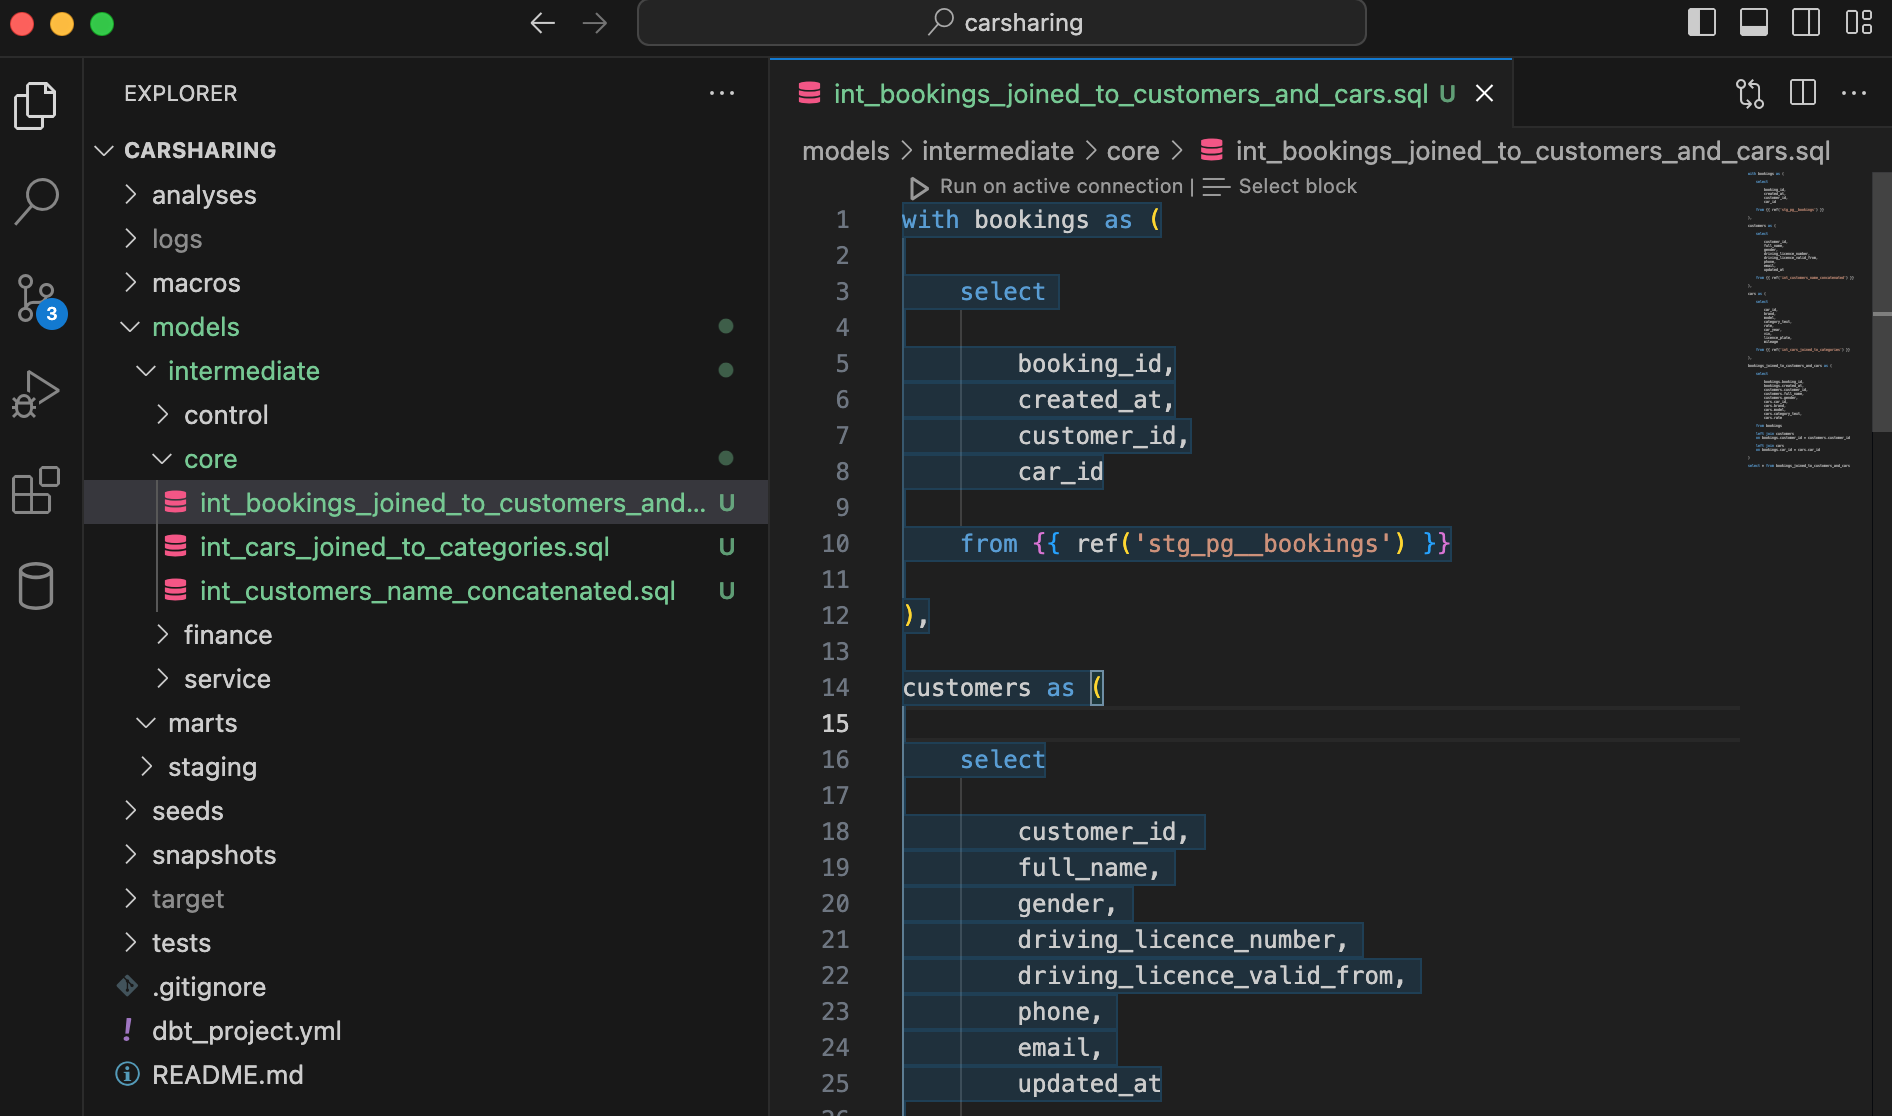
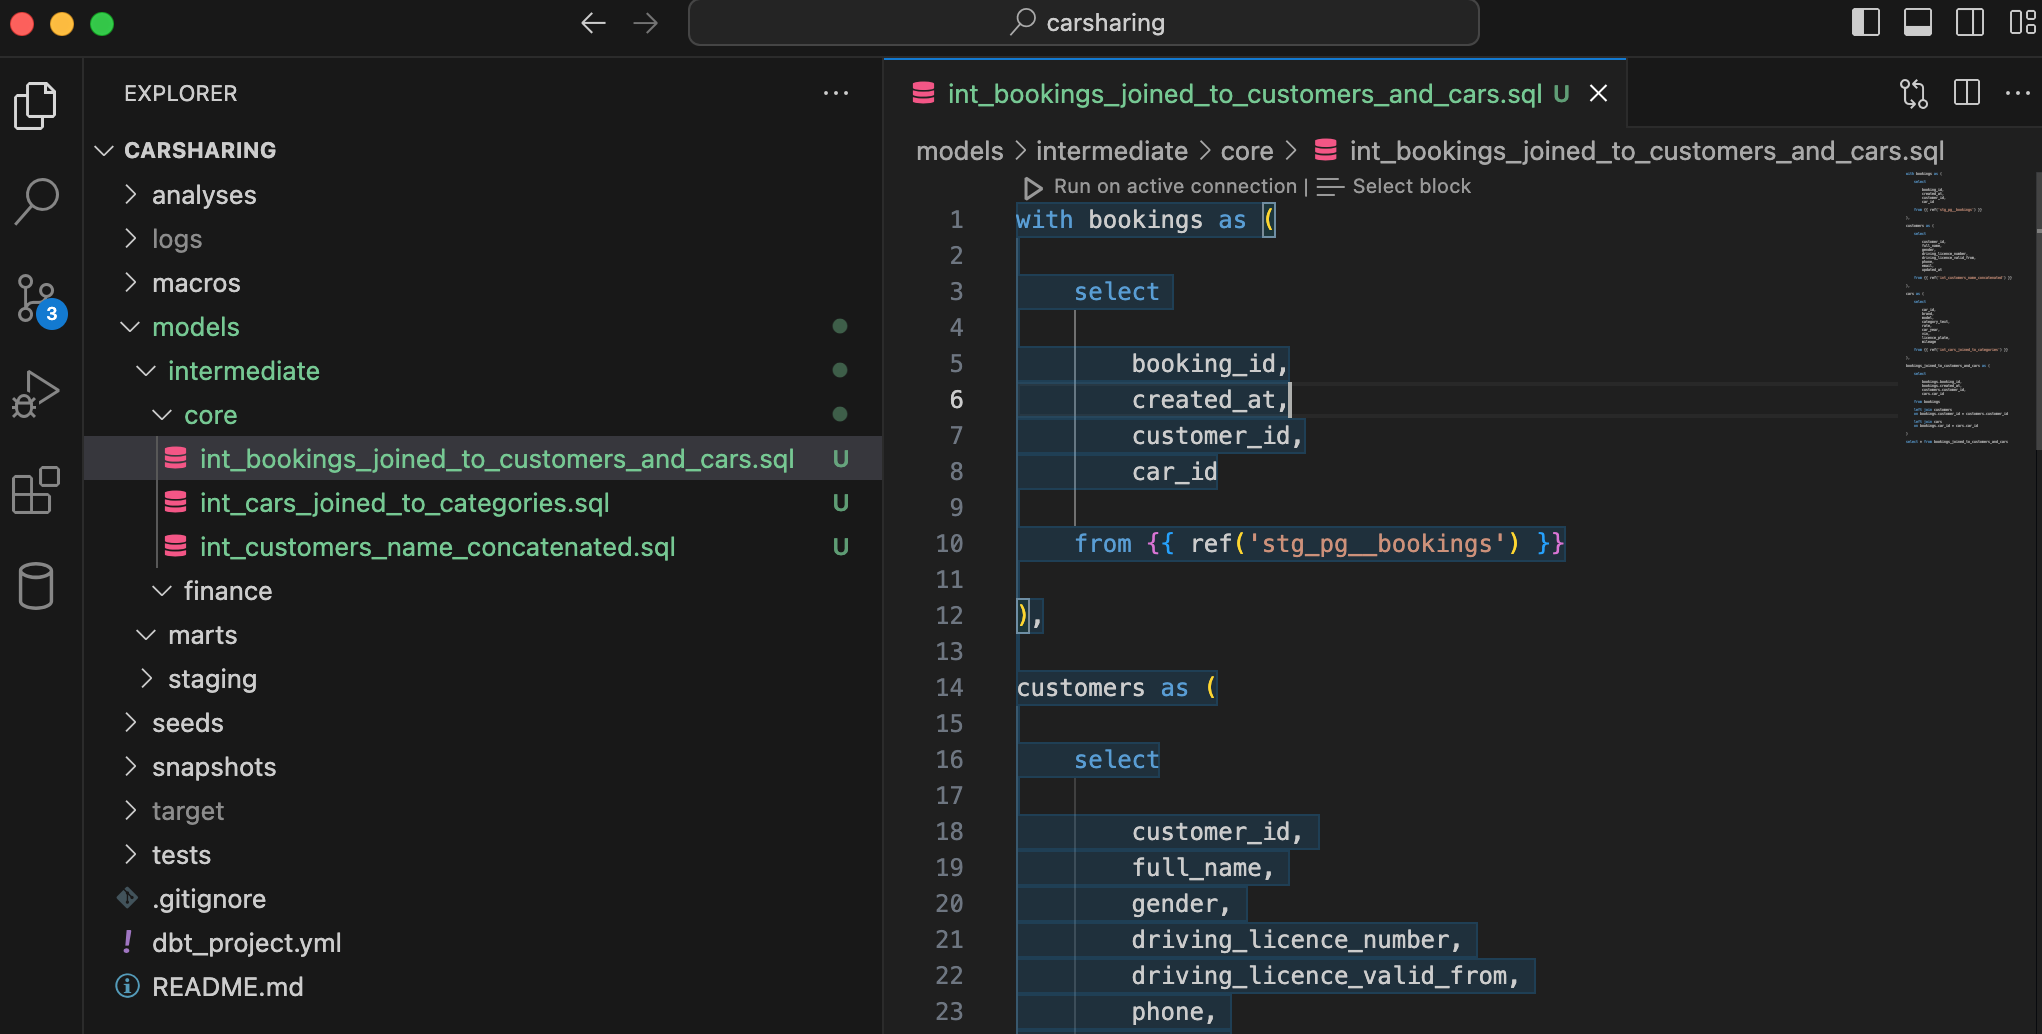
Update 7 files
- sozdanie-modeley-promezhutochnogo-sloya-intermed.md
   - sozdanie-modeley-promezhutochnogo-sloya-intermed-2.png
   - sozdanie-modeley-promezhutochnogo-sloya-intermed-3.png
   - sozdanie-modeley-promezhutochnogo-sloya-intermed-4.png
   - sozdanie-modeley-promezhutochnogo-sloya-intermed.png
 - uchebnyy-proekt.md
 - sozdanie-modeley-promezhutochnogo-sloya-intermed-5.png

diff --git a/sozdanie-modeley-promezhutochnogo-sloya-intermed.md b/sozdanie-modeley-promezhutochnogo-sloya-intermed.md
@@ -13,15 +13,13 @@ title: Создание моделей промежуточного слоя (in
 
 -  `core` – для хранения «общих» моделей,
 
--  `finance` – для хранения моделей финансового отдела,
-
--  `service` – для хранения моделей сервисного отдела.
+-  `finance` – для хранения моделей финансового отдела.
 
 ## Модели слоя
 
 ### Общие модели
 
-Одна из основных сущностей, которая может быть использована обоими отделами компании – заказчики (customers). Сама данная сущность будет создана на слое витрин, а промежуточный слой – место для преобразования данных для этой сущности.
+Одна из основных сущностей, которая может быть использована различными подразделениями компании – заказчики (customers). Сама данная сущность будет создана на слое витрин, а промежуточный слой – место для преобразования данных для этой сущности.
 
 На staging-слое есть модель `stg_pg__customers.sql`, которая содержит отдельные поля с именами и фамилиями заказчиков – `first_name` и `last_name`. Но по отдельности такие поля в аналитике практически не используются. В связи с этим, выполните первое простое преобразование данных на промежуточном слое – объединение этих двух полей.
 
@@ -64,7 +62,7 @@ with customers as (
 select * from customers
 ```
 
-![](./sozdanie-modeley-promezhutochnogo-sloya-intermed.png " Рисунок №. Промежуточная модель заказчиков"){width=1726px height=1018px}
+![](./sozdanie-modeley-promezhutochnogo-sloya-intermed.png "исунок №. Промежуточная модель заказчиков"){width=1892px height=946px}
 
 Пусть это достаточно простой пример, но на нем вы увидели не менее простой принцип создания модели промежуточного слоя dbt-проекта.
 
@@ -72,7 +70,7 @@ select * from customers
 
 Для создания обобщенной модели с данными об автомобилях обогатите данные таблицы `car` данными таблицы `category`.
 
-Создайте в папке `models/intermediate/core/` файл (в соответствии с правилами наименования) `int_cars_joined_to_categories.sql`.
+Создайте в папке `models/intermediate/core/` файл (по правилами наименования) `int_cars_joined_to_categories.sql`.
 
 Сделайте выборку данных из каждой staging-модели, а затем соедините:
 
@@ -130,7 +128,7 @@ cars_joined_to_categories as (
 select * from cars_joined_to_categories
 ```
 
-![](./sozdanie-modeley-promezhutochnogo-sloya-intermed-2.png "Рисунок №. Промежуточная модель автомобили"){width=1704px height=1070px}
+![](./sozdanie-modeley-promezhutochnogo-sloya-intermed-2.png "Рисунок №. Промежуточная модель автомобили"){width=1860px height=1002px}
 
 На промежуточном слое в качестве источников могут использоваться не только staging-модели, но и модели непосредственно промежуточного слоя. Примените эту идею в создании третьей общей сущности в платформе данных – бронирования (bookings). Как правило, бронирование содержит информацию о субъекте и объекте брони и будем считать эту сущность эквивалентом заказа. Применительно к учебному проекту модель бронирования должна быть представлена в разрезе заказчика и автомобиля.
 
@@ -194,13 +192,7 @@ bookings_joined_to_customers_and_cars as (
         bookings.booking_id,
         bookings.created_at,
         customers.customer_id, 
-        customers.full_name, 
-        customers.gender,
-        cars.car_id,
-        cars.brand, 
-        cars.model, 
-        cars.category_text, 
-        cars.rate
+        cars.car_id
 
     from bookings
 
@@ -215,9 +207,9 @@ bookings_joined_to_customers_and_cars as (
 select * from bookings_joined_to_customers_and_cars
 ```
 
-![](./sozdanie-modeley-promezhutochnogo-sloya-intermed-3.png "Рисунок №. Третья сущность"){width=1892px height=1116px}
+![](./sozdanie-modeley-promezhutochnogo-sloya-intermed-3.png "Рисунок №. Промежуточная модель бронирования"){width=2042px height=1034px}
 
-С «общими» моделями разобрались. Пришло время моделей для отделов компании, которые в конечном счете трансформируются в таблицы фактов.
+С «общими» моделями разобрались. Пришло время модели финансового отдел, которая в конечном счете трансформируется в таблицу фактов.
 
 ### Модели финансового отдела
 
@@ -274,60 +266,16 @@ payments_joined_to_bookings as(
 select * from payments_joined_to_bookings
 ```
 
-![](./sozdanie-modeley-promezhutochnogo-sloya-intermed-4.png "Рисунок №. Промежуточная модель для финансового отдела"){width=2006px height=1116px}
+![](./sozdanie-modeley-promezhutochnogo-sloya-intermed-4.png "Рисунок №. Промежуточная модель для финансового отдела"){width=1974px height=976px}
 
-### Модели сервисного отдела
+## Запуск проекта и обновление хранилища
 
-Теперь посмотрите на платформу данных глазами специалиста сервисного отдела. Исходя из имеющихся первичных данных, можно предположить, что сотрудникам сервисного отдела будет интересна, например, информация о текущем состоянии автомобилей и история их поломок.
+Таким образом, вы подготовили промежуточные модели, которые будут использоваться для создания витрин. Это конечно же не все модели, которые можно создать на основе данных системы-источника, для проведения аналитики учебного проекта. При желании вы можете создать дополнительные модели для сотрудников вымышленной компании Carsharing, а пока запустите движок dbt, чтобы создать объекты промежуточного слоя в хранилище.
 
-На первичном слое данных есть две модели, одна из которых содержит данные о поломках (`stg_pg__breakdowns`), а вторая является своего рода справочником с типами поломок (`stg_pg__breakdown_types`) – утечка топлива, неисправные тормоза, дефекты рулевого управления и т.д.
+Выполните команду запуска проекта:
 
-Создайте в папке `models/intermediate/service/` файл  `int_payments_joined_to_bookings.sql` и объедините в нем две перечисленные в предыдущем абзаце модели:
-
-```sql
-with breakdowns as (
-
-    select 
-
-        breakdown_id,
-        created_at,
-        breakdown_type_id,
-        car_id
-
-    from {{ ref('stg_pg__breakdowns') }}
-
-),
-
-breakdown_types as (
-
-    select
-
-        breakdown_type_id,
-        breakdown_type_text
-
-    from {{ ref('stg_pg__breakdown_types') }}
-
-), 
-
-breakdowns_joined_to_breakdown_types as (
-
-    select
-
-        breakdowns.breakdown_id,
-        breakdowns.created_at,
-        breakdown_types.breakdown_type_text,
-        breakdowns.car_id
-
-    from breakdowns
-
-    left join breakdown_types
-    on breakdowns.breakdown_type_id = breakdown_types.breakdown_type_id
-
-)
-
-select * from breakdowns_joined_to_breakdown_types
+```bash
+dbt run
 ```
-
-![](./sozdanie-modeley-promezhutochnogo-sloya-intermed-5.png "Рисунок №. Промежуточная модель о поломках "){width=2086px height=1134px}
 
 

diff --git a/uchebnyy-proekt.md b/uchebnyy-proekt.md
@@ -7,18 +7,13 @@ title: Учебный проект
 
 Представьте, что перед вами поставлена задача по разработке хранилища данных для приложения каршеринговой компании Carsharing. Предполагается, что данные уже загружены в платформу и вам требуется организовать их согласно заданной архитектуре и преобразовать по требуемой бизнес-логике.
 
-В результате выполнения учебного проекта вы подготовите витрины данных для двух подразделений компании:
-
--  финансовый отдел,
-
--  сервисный отдел.
+В результате выполнения учебного проекта вы подготовите витрины данных для финансового отдела компании.
 
 *Таблица 1. Витрины данных учебного проекта*
 
 | **Подразделение** | **Витрина** | **Примечание**                               |
 |-------------------|-------------|----------------------------------------------|
 | Финансовый отдел  | Оплата      | Оплата аренды автомобилей                    |
-| Сервисный отдел   | Поломки     | Поломки и техническое состояние автопарка    |
 | Все               | Заказчики   | Информация о клиентах, арендующих автомобили |
 | Все               | Автомобили  | Информация об автомобилях парка              |
 
